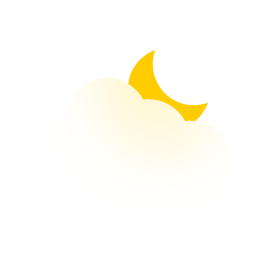
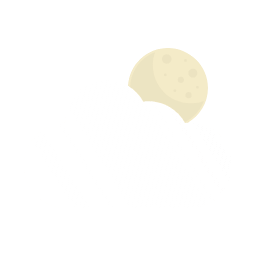
new weather illustrations, removed unsplash API stuff

Changed region(s): [[0.375, 0.1875, 0.8125, 0.5625]]

diff --git a/script.js b/script.js
@@ -290,14 +290,6 @@ function getData(locationArr, counter) {
             getData(locationArr, counter);
         }
     });
-
-    // Location image
-
-    fetch(`https://api.unsplash.com/photos/random?client_id=EZHyd42NG5tK6y7bvUL8EjrKio38_0mk-YfTFrlPZo4&orientation=portrait&query=${locationArr[counter].name},city`)
-    .then((response) => response.json())
-    .then((imageData) => {
-        console.log(imageData);
-    });
 }
 
 getData(locationArr, 0);
